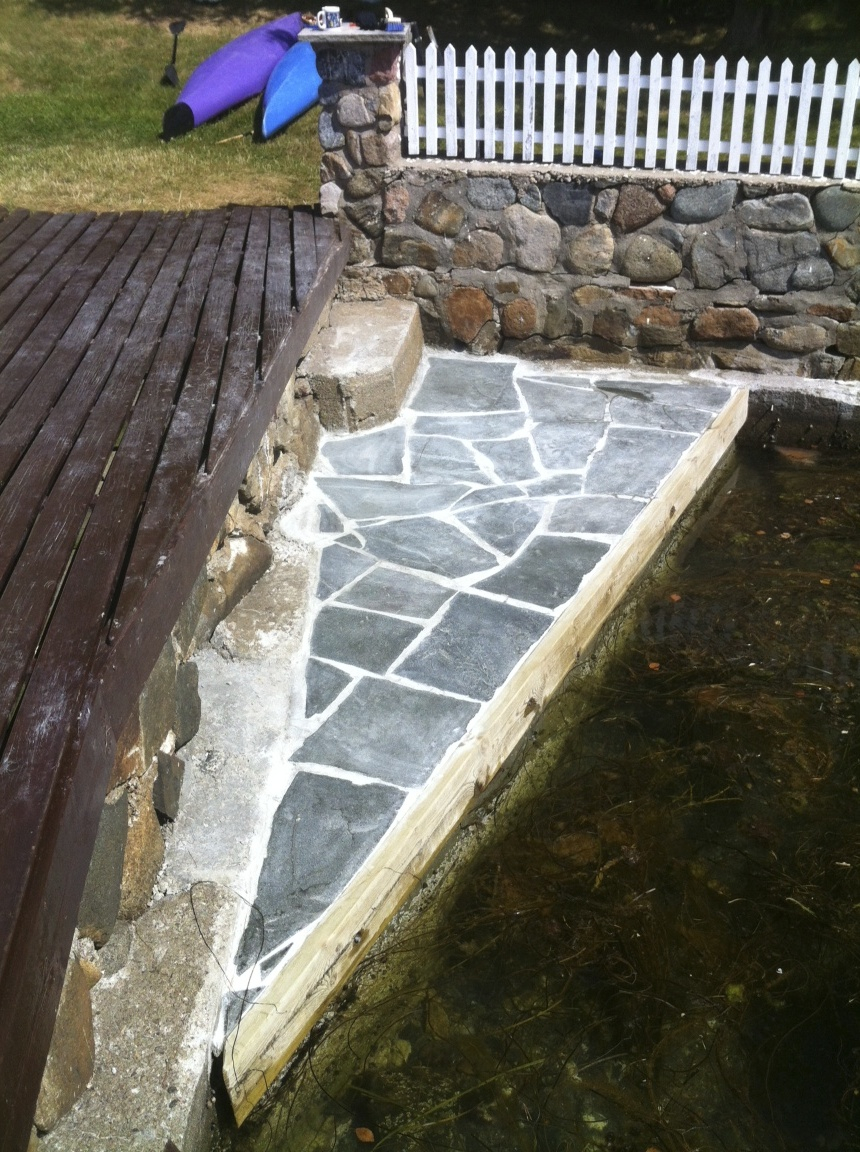
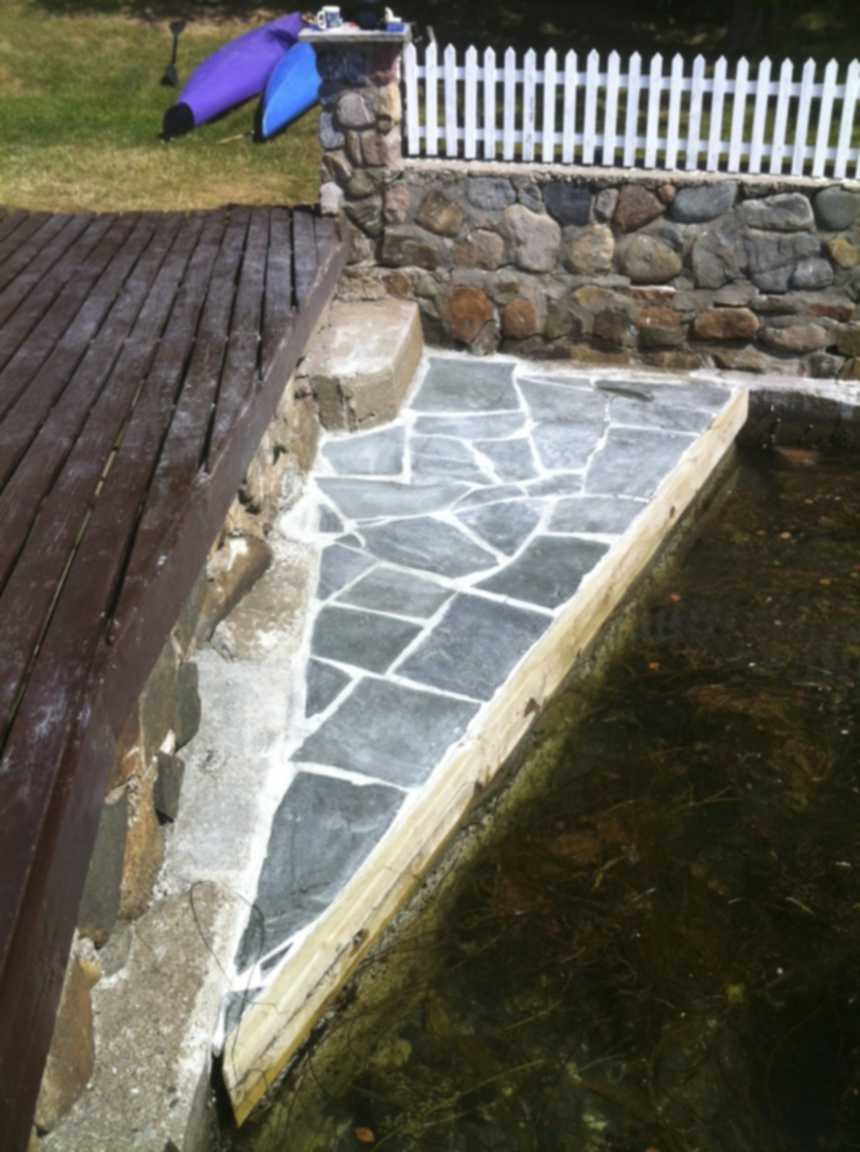
komprimert to album

diff --git a/public/views/galleri.php b/public/views/galleri.php
@@ -8,7 +8,7 @@ Skjermen er delt i to div'er; en med bilde og navbar og en med kommentarer.
 <script type="text/javascript">
 
 //    Diverse variabler som er satt av php og maa derfor vaere i en php fil
-    
+    //NOTICE: UNDEFINED VARIABLE _SESSION
     var bruker = "<?= $_SESSION["brukernavn"];?>";
     var albumId = "<?=$album["ID"];?>";
     var bilde = "<?=$image;?>";
